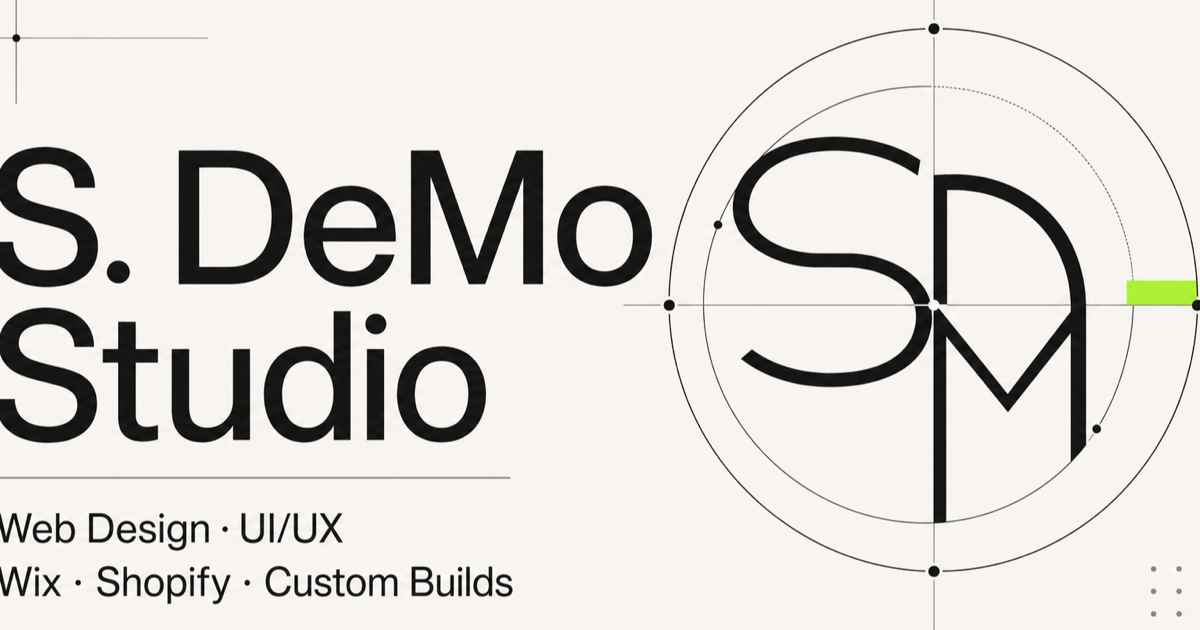
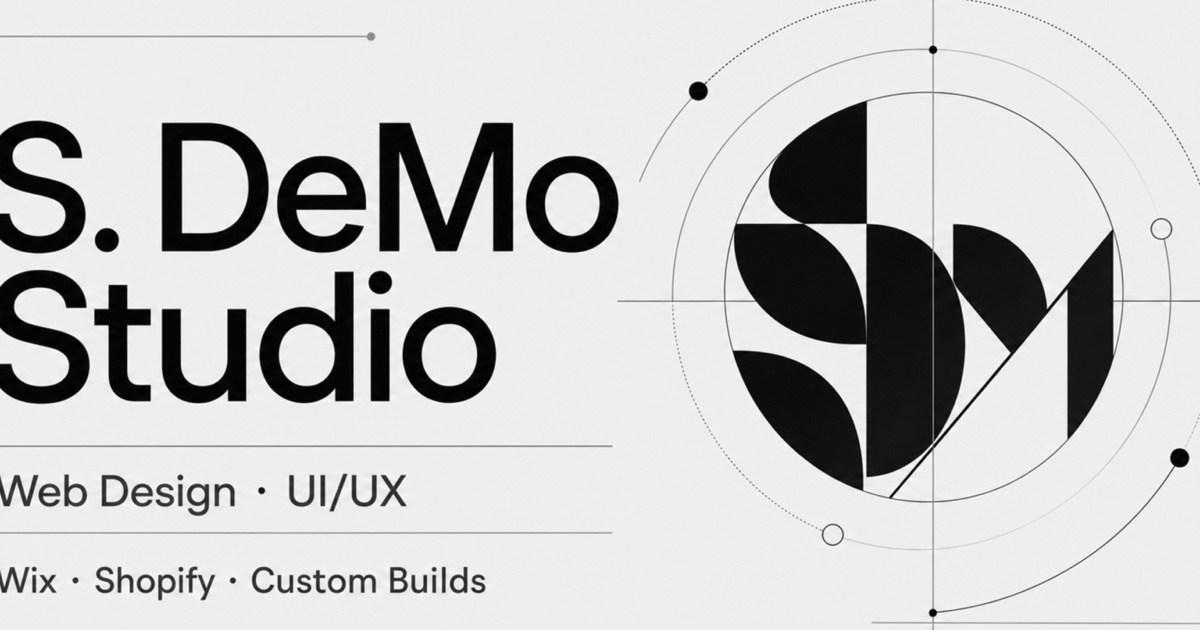
Switch site to monochrome theme

diff --git a/app/globals.css b/app/globals.css
@@ -1,12 +1,12 @@
 @import "tailwindcss";
 
 :root {
-  --ink: #171817;
-  --paper: #f3f0eb;
-  --white: #fffdf9;
-  --mist: #d7d5d0;
+  --ink: #0a0a0a;
+  --paper: #ededed;
+  --white: #ffffff;
+  --mist: #d6d6d6;
   --line: rgba(23, 24, 23, 0.16);
-  --accent: #b9ff3d;
+  --accent: #a3a3a3;
 }
 
 * {
@@ -33,7 +33,7 @@ body.intro-active {
   inset: 0;
   z-index: 1000;
   overflow: hidden;
-  background: #080908;
+  background: #050505;
   color: white;
   opacity: 1;
   visibility: visible;
@@ -58,8 +58,8 @@ body.intro-active {
   position: absolute;
   inset: 0;
   background:
-    radial-gradient(circle at center, transparent 20%, #080908 78%),
-    linear-gradient(to bottom, rgba(8, 9, 8, 0.15), rgba(8, 9, 8, 0.55));
+    radial-gradient(circle at center, transparent 20%, #050505 78%),
+    linear-gradient(to bottom, rgba(5, 5, 5, 0.15), rgba(5, 5, 5, 0.55));
   pointer-events: none;
 }
 
@@ -279,7 +279,7 @@ h1 {
 }
 
 h1 span {
-  color: #777976;
+  color: #777777;
   font-style: italic;
   font-family: Georgia, "Times New Roman", serif;
   font-weight: 400;
@@ -291,7 +291,7 @@ h1 span {
   margin-bottom: 38px;
   font-size: 19px;
   line-height: 1.55;
-  color: #565855;
+  color: #565656;
 }
 
 .hero-actions {
@@ -337,7 +337,7 @@ h1 span {
 
 .orbit {
   position: absolute;
-  border: 1px solid #9fa19d;
+  border: 1px solid #9f9f9f;
   border-radius: 50%;
 }
 
@@ -387,7 +387,7 @@ h1 span {
   width: 4px;
   height: 4px;
   border-radius: 50%;
-  background: #8d8e8a;
+  background: #8d8d8d;
 }
 
 .statement {
@@ -410,7 +410,7 @@ h1 span {
 }
 
 .statement-copy em {
-  color: #8a8c88;
+  color: #898989;
   font-family: Georgia, "Times New Roman", serif;
   font-weight: 400;
 }
@@ -441,7 +441,7 @@ h1 span {
 .section-heading > p,
 .process-top > p {
   margin: 0;
-  color: #666864;
+  color: #666666;
   line-height: 1.65;
   font-size: 15px;
 }
@@ -472,7 +472,7 @@ h1 span {
 .service-number {
   display: block;
   margin-bottom: 86px;
-  color: #81837f;
+  color: #818181;
   font-size: 11px;
   font-weight: 800;
 }
@@ -484,7 +484,7 @@ h1 span {
 }
 
 .service-card p {
-  color: #626460;
+  color: #626262;
   font-size: 14px;
   line-height: 1.65;
 }
@@ -520,11 +520,11 @@ h1 span {
 }
 
 .eyebrow-light {
-  color: #bfc1bd;
+  color: #bfbfbf;
 }
 
 .process-top > p {
-  color: #bfc1bd;
+  color: #bfbfbf;
 }
 
 .steps {
@@ -564,7 +564,7 @@ h1 span {
 }
 
 .steps p {
-  color: #aeb0ac;
+  color: #aeaeae;
   font-size: 13px;
   line-height: 1.6;
 }
@@ -585,7 +585,7 @@ h1 span {
   content: "";
   position: absolute;
   inset: 0 20px 20px 0;
-  border: 1px solid #9a9c98;
+  border: 1px solid #9a9a9a;
 }
 
 .portrait img {
@@ -619,7 +619,7 @@ h1 span {
 }
 
 .about-copy > p:not(.eyebrow):not(.lead) {
-  color: #666864;
+  color: #666666;
   line-height: 1.7;
 }
 
@@ -628,7 +628,7 @@ h1 span {
 }
 
 .contact {
-  background: #2f302e;
+  background: #303030;
   color: white;
 }
 
@@ -650,7 +650,7 @@ h1 span {
 
 .contact-inner > p:not(.eyebrow) {
   max-width: 550px;
-  color: #c7c9c5;
+  color: #c7c7c7;
   font-size: 17px;
   line-height: 1.55;
 }
@@ -669,7 +669,7 @@ h1 span {
 }
 
 .contact-actions > span {
-  color: #9ea09c;
+  color: #9e9e9e;
   font-size: 11px;
   text-transform: uppercase;
   letter-spacing: 0.12em;

diff --git a/components/site-intro.tsx b/components/site-intro.tsx
@@ -54,7 +54,7 @@ export function SiteIntro() {
         <MagicDust
           sequence={introSequence}
           particleCount={7000}
-          particleColor="#b9ff3d"
+          particleColor="#ffffff"
           particleSize={0.024}
           holdDuration={2}
           animationSpeed={1.35}
